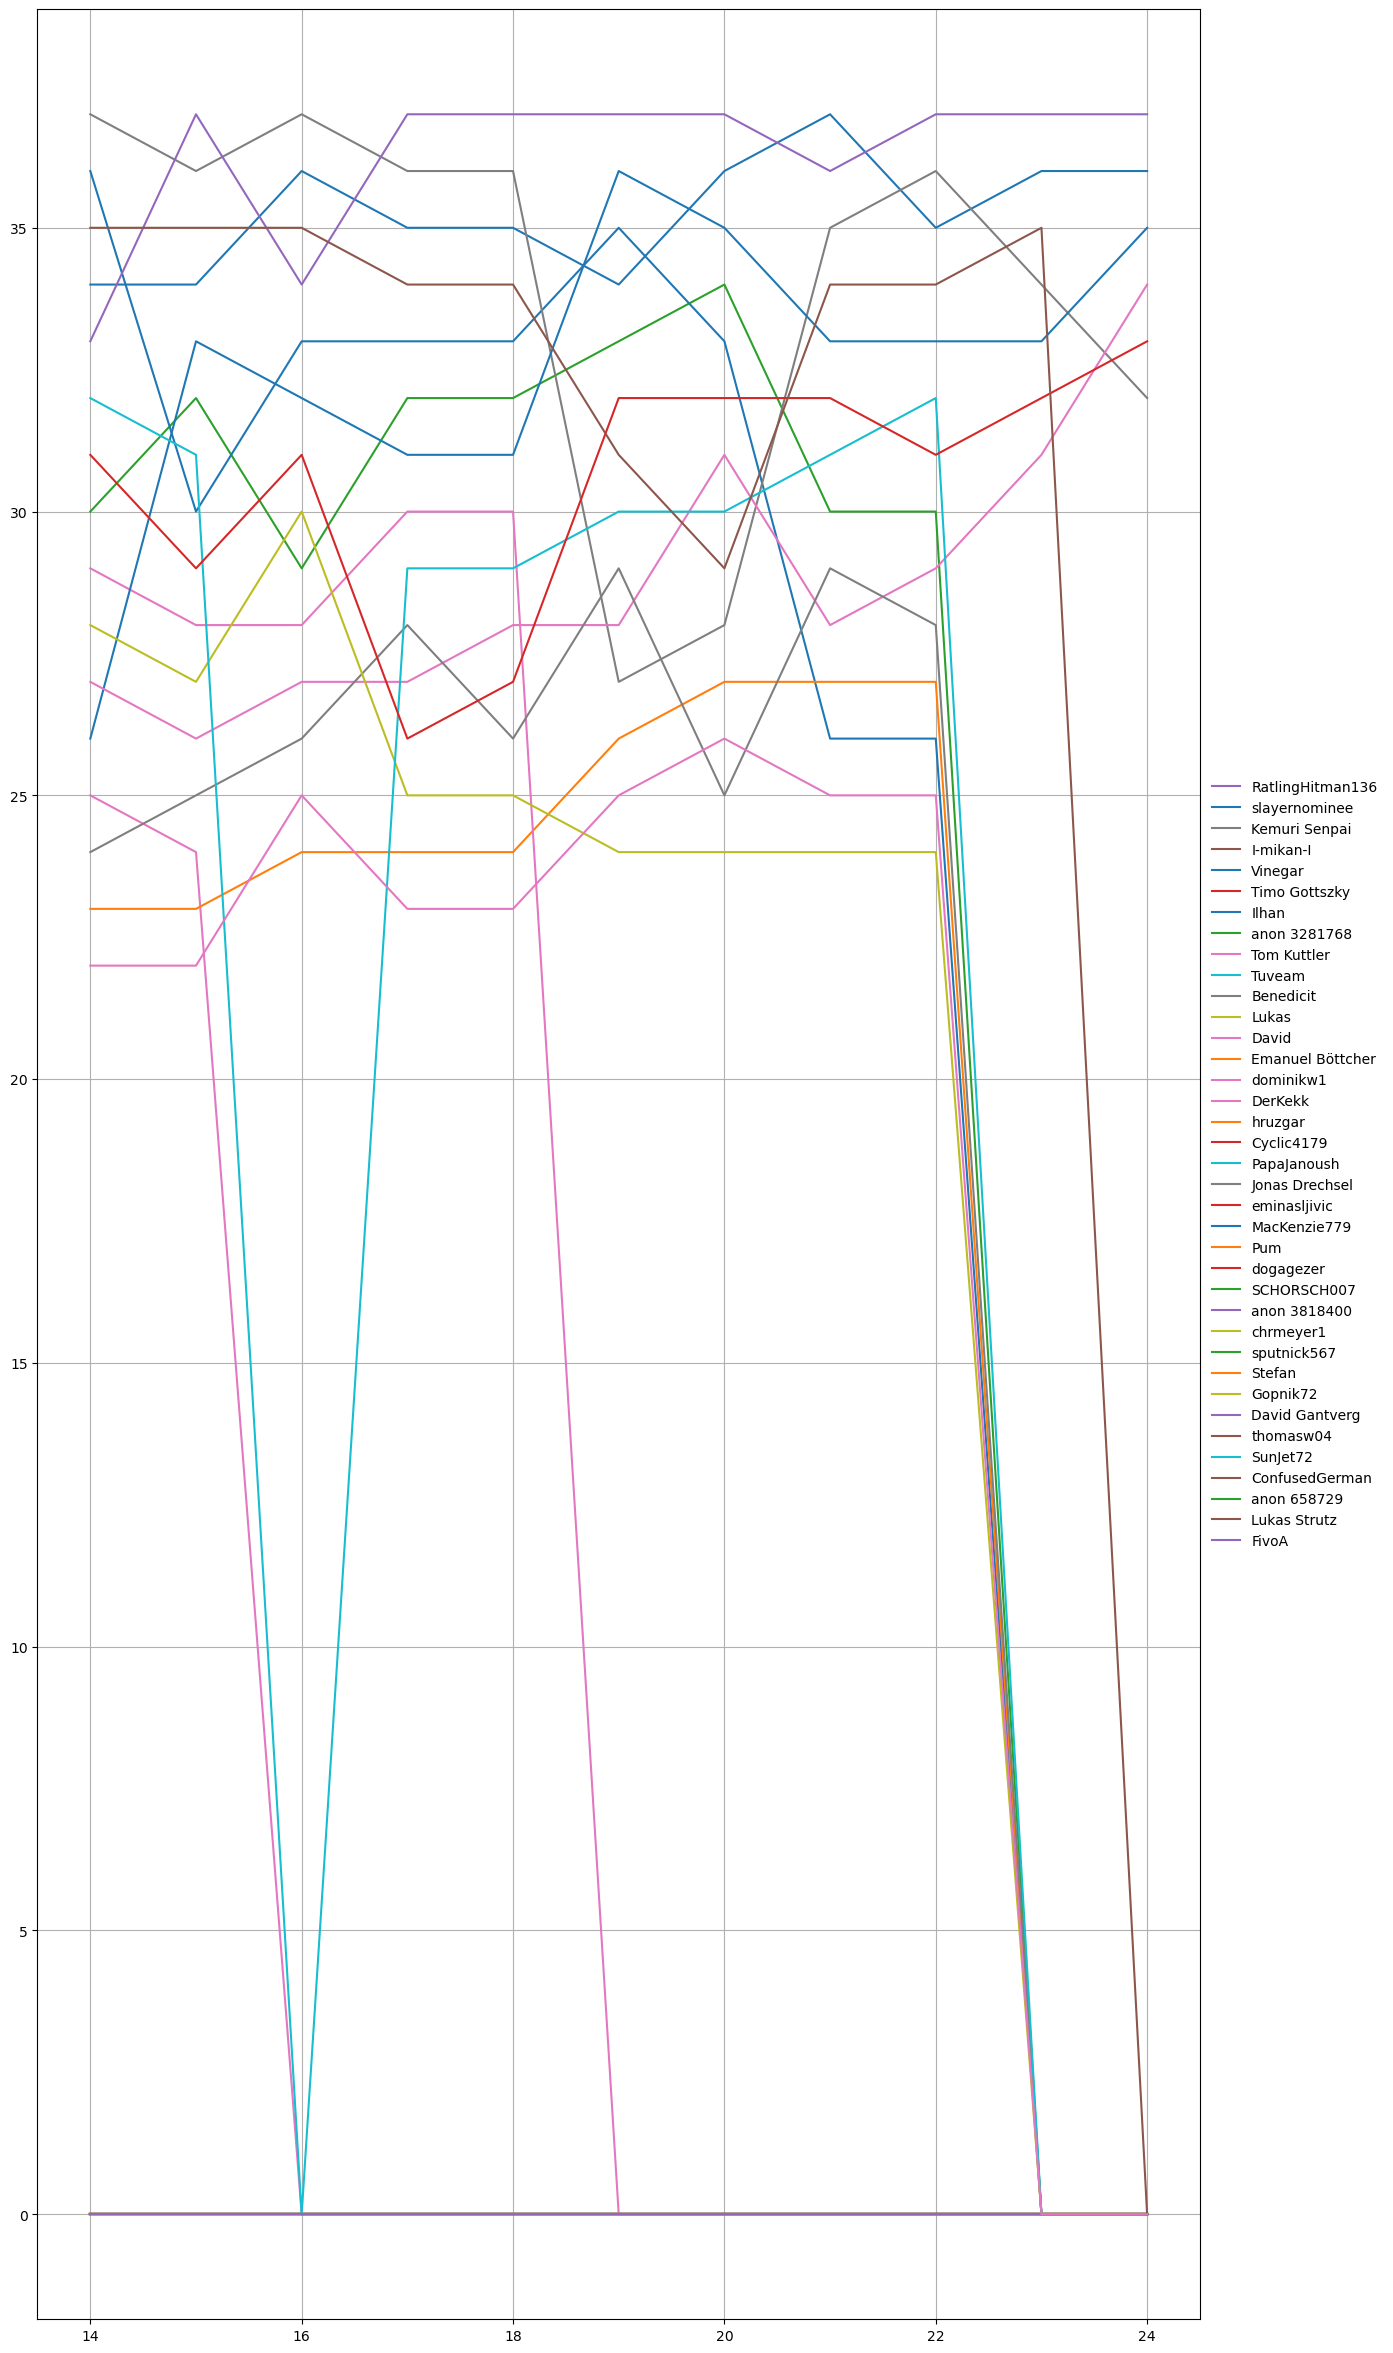
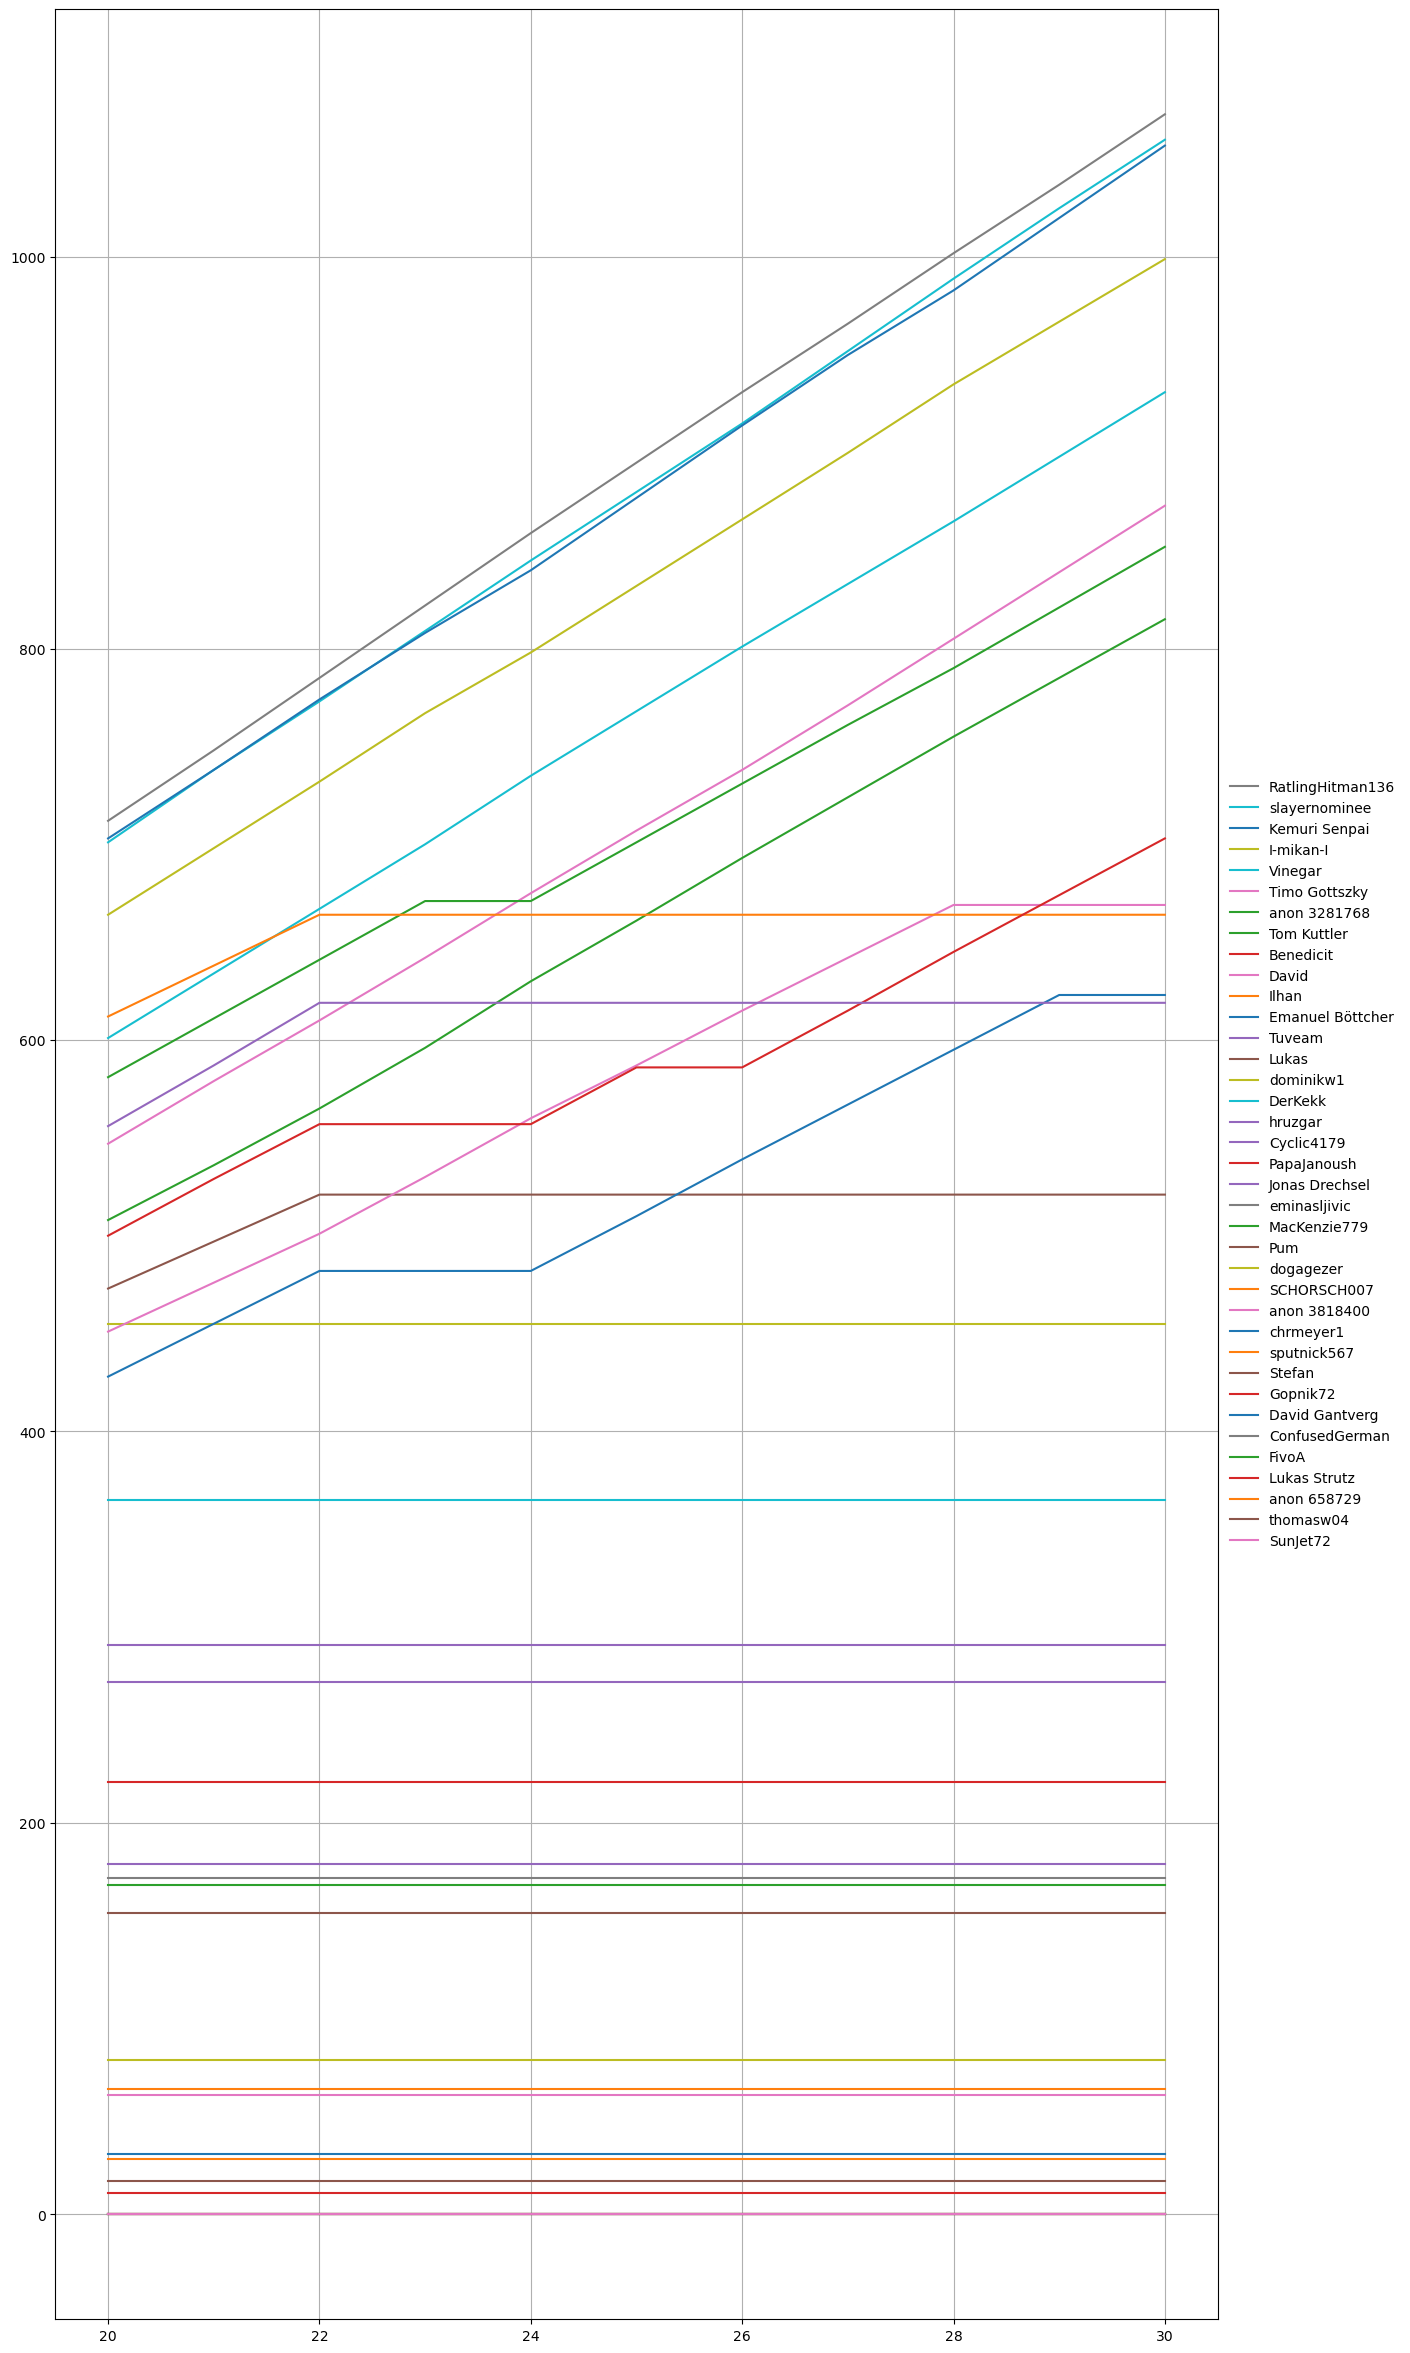
ez

diff --git a/2023/15/02.py b/2023/15/02.py
@@ -1,0 +1,41 @@
+with open("i") as f:
+  l = f.read().strip().split(",")
+
+def hhash(i):
+  v = 0
+  for j in i:
+    v = (v + ord(j)) * 17 % 256
+  return v
+
+boxs = [[] for i in range(256)]
+
+for i in l:
+  if "=" in i:
+    a, b = i.split("=")
+    h = hhash(a)
+    idx = -1
+    for j, bo in enumerate(boxs[h]):
+      if bo[0] == a:
+        idx = j
+        break
+
+    if idx == -1: boxs[h].append([])
+    boxs[h][idx] = [a, int(b)]
+
+  else:
+    a = i[:-1]
+    h = hhash(a)
+    idx = -1
+    for j, b in enumerate(boxs[h]):
+      if b[0] == a:
+        idx = j
+        break
+    if ~idx:
+      boxs[h].pop(idx)
+
+s = 0
+for i, b in enumerate(boxs):
+  for j, v in enumerate(b):
+    s += (i + 1) * (j + 1) * v[1]
+
+print(s)

diff --git a/scoreboard.py b/scoreboard.py
@@ -41,8 +41,8 @@ for day in range(1, days + 1):
 for id in data:
   #ddd = range(1, days * 2 + 1)
   ddd = range(days * 2 - 10, days * 2 + 1)
-  ddt = [data[id][i] - data[id][i - 1] for i in ddd]
-  #ddt = [data[id][i] for i in ddd]
+  #ddt = [data[id][i] - data[id][i - 1] for i in ddd]
+  ddt = [data[id][i] for i in ddd]
 
   plt.plot(ddd, ddt, label = id)
 

diff --git a/2023/15/01.py b/2023/15/01.py
@@ -1,0 +1,11 @@
+with open("i") as f:
+  l = f.read().strip().split(",")
+
+s = 0
+for i in l:
+  v = 0
+  for j in i:
+    v = (v + ord(j)) * 17 % 256
+  s += v
+
+print(s)
